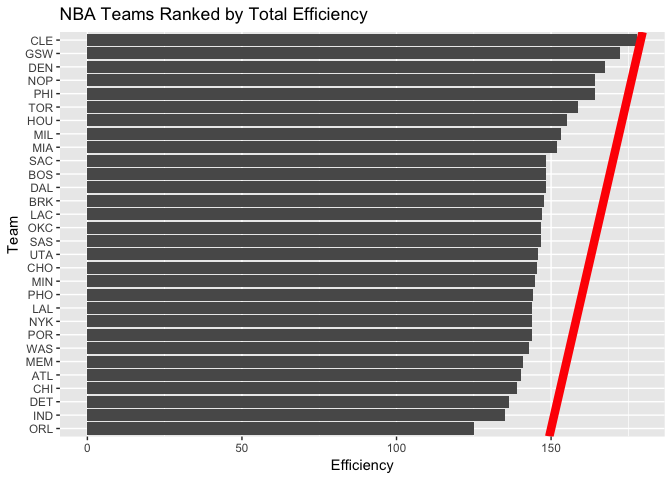
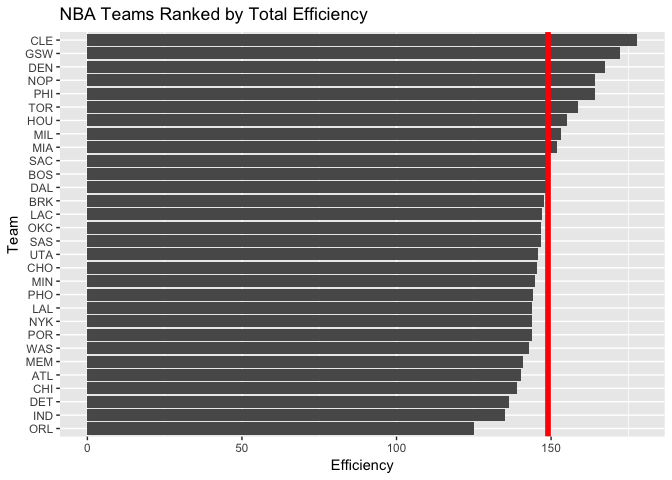
changes

Changed region(s): [[0.8125, 0.0625, 0.9688, 0.9062]]

diff --git a/hw03/report/hw03-deborah-chang.md b/hw03/report/hw03-deborah-chang.md
@@ -74,22 +74,21 @@ names(teams) [1:15] = c("team","experience", "salary", "points3", "points2", "fr
                         "steals", "blocks", "turnovers","fouls", "efficiency")
 
 
-ggplot(teams, aes(x = reorder(teams$team, teams$salary), y = teams$salary)) + ggtitle(label = "NBA Teams Ranked by Total Salary") + geom_bar(stat = 'identity') + coord_flip()+labs(x = "Team", y = "Salary") + geom_abline(intercept = c(mean(teams$salary)), linetype = "solid", color = "red", size = 2)
+ggplot(teams, aes(x = reorder(teams$team, teams$salary), y = teams$salary)) + ggtitle(label = "NBA Teams Ranked by Total Salary") + geom_bar(stat = 'identity') + coord_flip()+labs(x = "Team", y = "Salary") + geom_hline(yintercept = mean(teams$salary), linetype = "solid", color = "red", size = 2)
 ```
 
 ![](hw03-deborah-chang_files/figure-markdown_github-ascii_identifiers/unnamed-chunk-2-1.png)
 
 ``` r
-library(scales)
 plotPoints <- ggplot(teams, aes(x = reorder(teams$team, teams$points), y = teams$points)) + ggtitle(label = "NBA Teams Ranked by Total Points") + geom_bar(stat = 'identity') + coord_flip() + labs(x = "Team", y = "Points") 
-plotPoints + geom_vline(xintercept = mean(teams$points), linetype = "solid", color = "red", size = 2)
+plotPoints + geom_hline(yintercept = mean(teams$points), linetype = "solid", color = "red", size = 2)
 ```
 
 ![](hw03-deborah-chang_files/figure-markdown_github-ascii_identifiers/unnamed-chunk-3-1.png)
 
 ``` r
 library(scales)
-ggplot(teams, aes(x = reorder(teams$team, teams$efficiency), y = teams$efficiency)) + ggtitle(label = "NBA Teams Ranked by Total Efficiency") + geom_bar(stat = 'identity') + coord_flip()+labs(x = "Team", y = "Efficiency") + geom_abline(intercept = c(mean(teams$efficiency)), linetype = "solid", color = "red", size = 3)
+ggplot(teams, aes(x = reorder(teams$team, teams$efficiency), y = teams$efficiency)) + ggtitle(label = "NBA Teams Ranked by Total Efficiency") + geom_bar(stat = 'identity') + coord_flip()+labs(x = "Team", y = "Efficiency") + geom_hline(yintercept = mean(teams$efficiency), linetype = "solid", color = "red", size = 2)
 ```
 
 ![](hw03-deborah-chang_files/figure-markdown_github-ascii_identifiers/unnamed-chunk-4-1.png)
